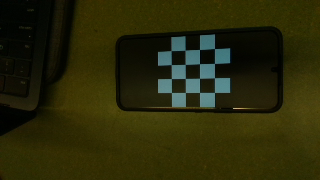
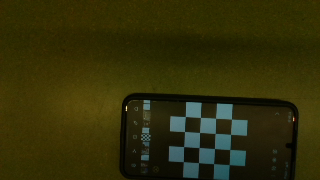
Visual servoing worked

diff --git a/newPhotoFinalProject.m b/newPhotoFinalProject.m
@@ -1,28 +1,28 @@
-%function T_ce = newPhotoFinalProject()
+function T_CE = newPhotoFinalProject(cam)
     
-fixedRobotPoses = [0.2671    0.0179   -0.0118
-    0.2644    0.0394    0.0333
-    0.2502   -0.0190   -0.0005
-    0.2902    0.0144    0.0817
-    0.2267    0.0197    0.0832
-    0.2513   -0.0160    0.0110
-    0.2474    0.0365    0.0303
-    0.2503    0.0442    0.0764
-    0.2945    0.0250    0.0667
-    0.2740   -0.0590    0.0960]
-fixedRobotOrientatons = [0.0670         0         0
-    0.1478         0         0
-   -0.0758         0         0
-    0.0494         0         0
-    0.0869         0         0
-   -0.0638         0         0
-    0.1465         0         0
-    0.1746         0         0
-    0.0845         0         0
-   -0.2121         0         0]
+fixedRobotPoses = [0.1958   -0.0144    0.1640
+    0.1932   -0.0362    0.1645
+    0.1859   -0.0674    0.1567
+    0.1964   -0.0219    0.1568
+    0.1956    0.0200    0.1627
+    0.1981    0.0150    0.1491
+    0.1991   -0.0071    0.1434
+    0.1969   -0.0318    0.1358
+    0.1914   -0.0560    0.1338
+    0.1984   -0.0171    0.1470]
+fixedRobotOrientatons = [-0.0735         0         0
+   -0.1853         0         0
+   -0.3479         0         0
+   -0.1109         0         0
+    0.1021         0         0
+    0.0758         0         0
+   -0.0356         0         0
+   -0.1603         0         0
+   -0.2846         0         0
+   -0.0859         0         0]
 
 % Initialise Webcam
-cam = webcam;
+% cam = webcam;
 
 % Specify the path for saving images
 save_path = 'C:\Users\harrs\OneDrive - UTS\Documents\GitHub\calibrationHNM\';
@@ -56,7 +56,7 @@ for i = 1:numImages
 end
 
 % Release the camera after capturing images
-clear cam;
+% clear cam;
 
 % Define images to process
 imageFileNames = cellstr(sprintfc('image%d.png', 1:numImages));
@@ -79,7 +79,7 @@ originalImage = imread('C:\Users\harrs\OneDrive - UTS\Documents\GitHub\calibrati
 [mrows, ncols, ~] = size(originalImage);
 
 % Generate world coordinates for the planar pattern keypoints
-squareSize = 35;  % in units of 'millimeters'
+squareSize = 13;  % in units of 'millimeters'
 worldPoints = generateWorldPoints(detector, 'SquareSize', squareSize, 'boardSize', [5 5]);
 worldPoints3D = [worldPoints, zeros(size(worldPoints, 1), 1)];
 
@@ -108,12 +108,15 @@ undistortedImage = undistortImage(originalImage, cameraParams);
 % showdemo('MeasuringPlanarObjectsExample')
 % showdemo('StructureFromMotionExample')
 
-numImages = 10; % Number of images taken by the moving camera
+numImages = length(imageFileNames); % Number of images taken by the moving camera
 movingCameraPoses = cell(1, numImages); % Preallocate a cell array
 
 for i = 1:numImages
     % Detect checkerboard in the i-th image
     [imagePoints, boardSize] = detectCheckerboardPoints(imageFileNames{i});
+    if size(imagePoints, 1) > size(worldPoints, 1)
+        imagePoints = imagePoints(1:size(worldPoints, 1), :);
+    end
 
     % Estimate pose using cameraParams from calibration
     [R, t] = estimateWorldCameraPose(imagePoints, worldPoints3D, cameraParams);
@@ -225,4 +228,4 @@ disp(T_CT_avg);
 T_BT = T_BC * T_CT_avg; % T_BT now represents the pose of the target in the base coordinate frame
 disp('T_BT:');
 disp(T_BT); % Print the final transformation matrix
-%end
+end

diff --git a/testOutput.m b/testOutput.m
@@ -48,10 +48,10 @@ newOrientation = [
 % Joint states of the robot for calibration
 
 % Capture the images after moving the robot
-for i = 1:length(pose)       
-    sendTargetEndEffectorPose(pose(i,:), newOrientation(i,:));
-    pause(5); % pause until the robot has finished moving, we have to hardcode this 
-end
+% for i = 1:length(pose)       
+%     sendTargetEndEffectorPose(pose(i,:), newOrientation(i,:));
+%     pause(5); % pause until the robot has finished moving, we have to hardcode this 
+% end
 % 
 % 
 % 
@@ -59,23 +59,23 @@ end
 % % IF IT DOESNT WORK WRITR: rosshutdown
 % % % InitialiseDobot();
 % % 
-% % PositionMatrix = []; 
-% % OrientationMatrix = [];
-% % maxSteps = 5;
-% % 
-% % for i = 1:maxSteps
-% %     input('Please move the robot to a new position, and then press enter');
-% % 
-% %     % Get the current end-effector pose (position and quaternion).
-% %     [currentEndEffectorPosition, currentEndEffectorQuat] = getCurrentEndEffectorPose();
-% % 
-% %     % Append the position and orientation as rows to their respective matrices.
-% %     PositionMatrix = [PositionMatrix; currentEndEffectorPosition];
-% %     OrientationMatrix = [OrientationMatrix; currentEndEffectorQuat];
-% %     disp('ok, I finished this one!');
-% % end
-% % disp(PositionMatrix);
-% % disp(OrientationMatrix);
+PositionMatrix = []; 
+OrientationMatrix = [];
+maxSteps = 10;
+
+for i = 1:maxSteps
+    input('Please move the robot to a new position, and then press enter');
+
+    % Get the current end-effector pose (position and quaternion).
+    [currentEndEffectorPosition, currentEndEffectorQuat] = getCurrentEndEffectorPose();
+
+    % Append the position and orientation as rows to their respective matrices.
+    PositionMatrix = [PositionMatrix; currentEndEffectorPosition];
+    OrientationMatrix = [OrientationMatrix; currentEndEffectorQuat];
+    disp('ok, I finished this one!');
+end
+disp(PositionMatrix);
+disp(OrientationMatrix);
 % % input('press enter to move again');
 % % 
 % % for i=1:maxSteps

diff --git a/VisualServoing.m b/VisualServoing.m
@@ -25,6 +25,7 @@ function VisualServoing(cam, basePosImg, T_camera_endeffector)
     
     % Extract Desired Features
     % Detect SURF features in the reference image
+    basePosImg = rgb2gray(basePosImg);
     desiredFeatures = detectSURFFeatures(basePosImg);
     
     % Extract features (descriptors) from the base image
@@ -34,7 +35,7 @@ function VisualServoing(cam, basePosImg, T_camera_endeffector)
     while true
         % Get Current Features and Compute Error
         % Capture current image from the camera
-        currentImg = snapshot(cam);
+        currentImg = rgb2gray(snapshot(cam));
         
         % Detect SURF features in the current image
         currentFeatures = detectSURFFeatures(currentImg);
@@ -98,7 +99,7 @@ function VisualServoing(cam, basePosImg, T_camera_endeffector)
         T_delta = [delta_rotation_matrix, delta_translation; 0 0 0 1];
         
         % Compute new pose
-        T_new = T_current * T_delta * T_camera_endeffector;
+        T_new = T_current * T_delta; % * T_camera_endeffector *0.01
         newPosition = T_new(1:3, 4)';
         newRotationMatrix = T_new(1:3, 1:3);
         newEulerAngles = rotm2eul(newRotationMatrix, 'XYZ');
@@ -107,6 +108,7 @@ function VisualServoing(cam, basePosImg, T_camera_endeffector)
         sendTargetEndEffectorPose(newPosition, newEulerAngles);
         
         % Wait for Next Iteration
-        pause(dt);
+        % pause(dt);
+        
     end
 end

diff --git a/CalibrateDobotMagician.m b/CalibrateDobotMagician.m
@@ -100,11 +100,12 @@ function T_CE = CalibrateDobotMagician(cam)
     % For example, you can use the calibration data to remove effects of lens distortion.
     undistortedImage = undistortImage(originalImage, cameraParams);
     
-    % See additional examples of how to use the calibration data.  At the prompt type:
+    % See additional examples of how to use the calibration data.  At the
+    % prompt type: 
     % showdemo('MeasuringPlanarObjectsExample')
     % showdemo('StructureFromMotionExample')
     
-    numImages = 10; % Number of images taken by the moving camera
+    numImages = length(imageFileNames); % Number of images taken by the moving camera
     movingCameraPoses = cell(1, numImages); % Preallocate a cell array
     
     for i = 1:numImages

diff --git a/DoBotMain.m b/DoBotMain.m
@@ -25,9 +25,11 @@
 % InitialiseDobot();
 % input("press enter once finished calibrating");
 cam = webcam;  % Connect to the default webcam
-t_ce = CalibrateDobotMagician(cam); %idk what I'm not actually passing out so yeah lol.
+t_ce = newPhotoFinalProject(cam); %idk what I'm not actually passing out so yeah lol.
 basePosImg = GetBasePos(cam);
-input('ensure the command window has the safety stop function ready, then press enter');
+% input('ensure the command window has the safety stop function ready, then press enter');
+disp('done, will pause for a sec');
+pause(1);
 % virtual estop function -> WAIT_NO_NO_NO_STOP_THE_ROBOT();
 VisualServoing(cam, basePosImg, t_ce);
 
